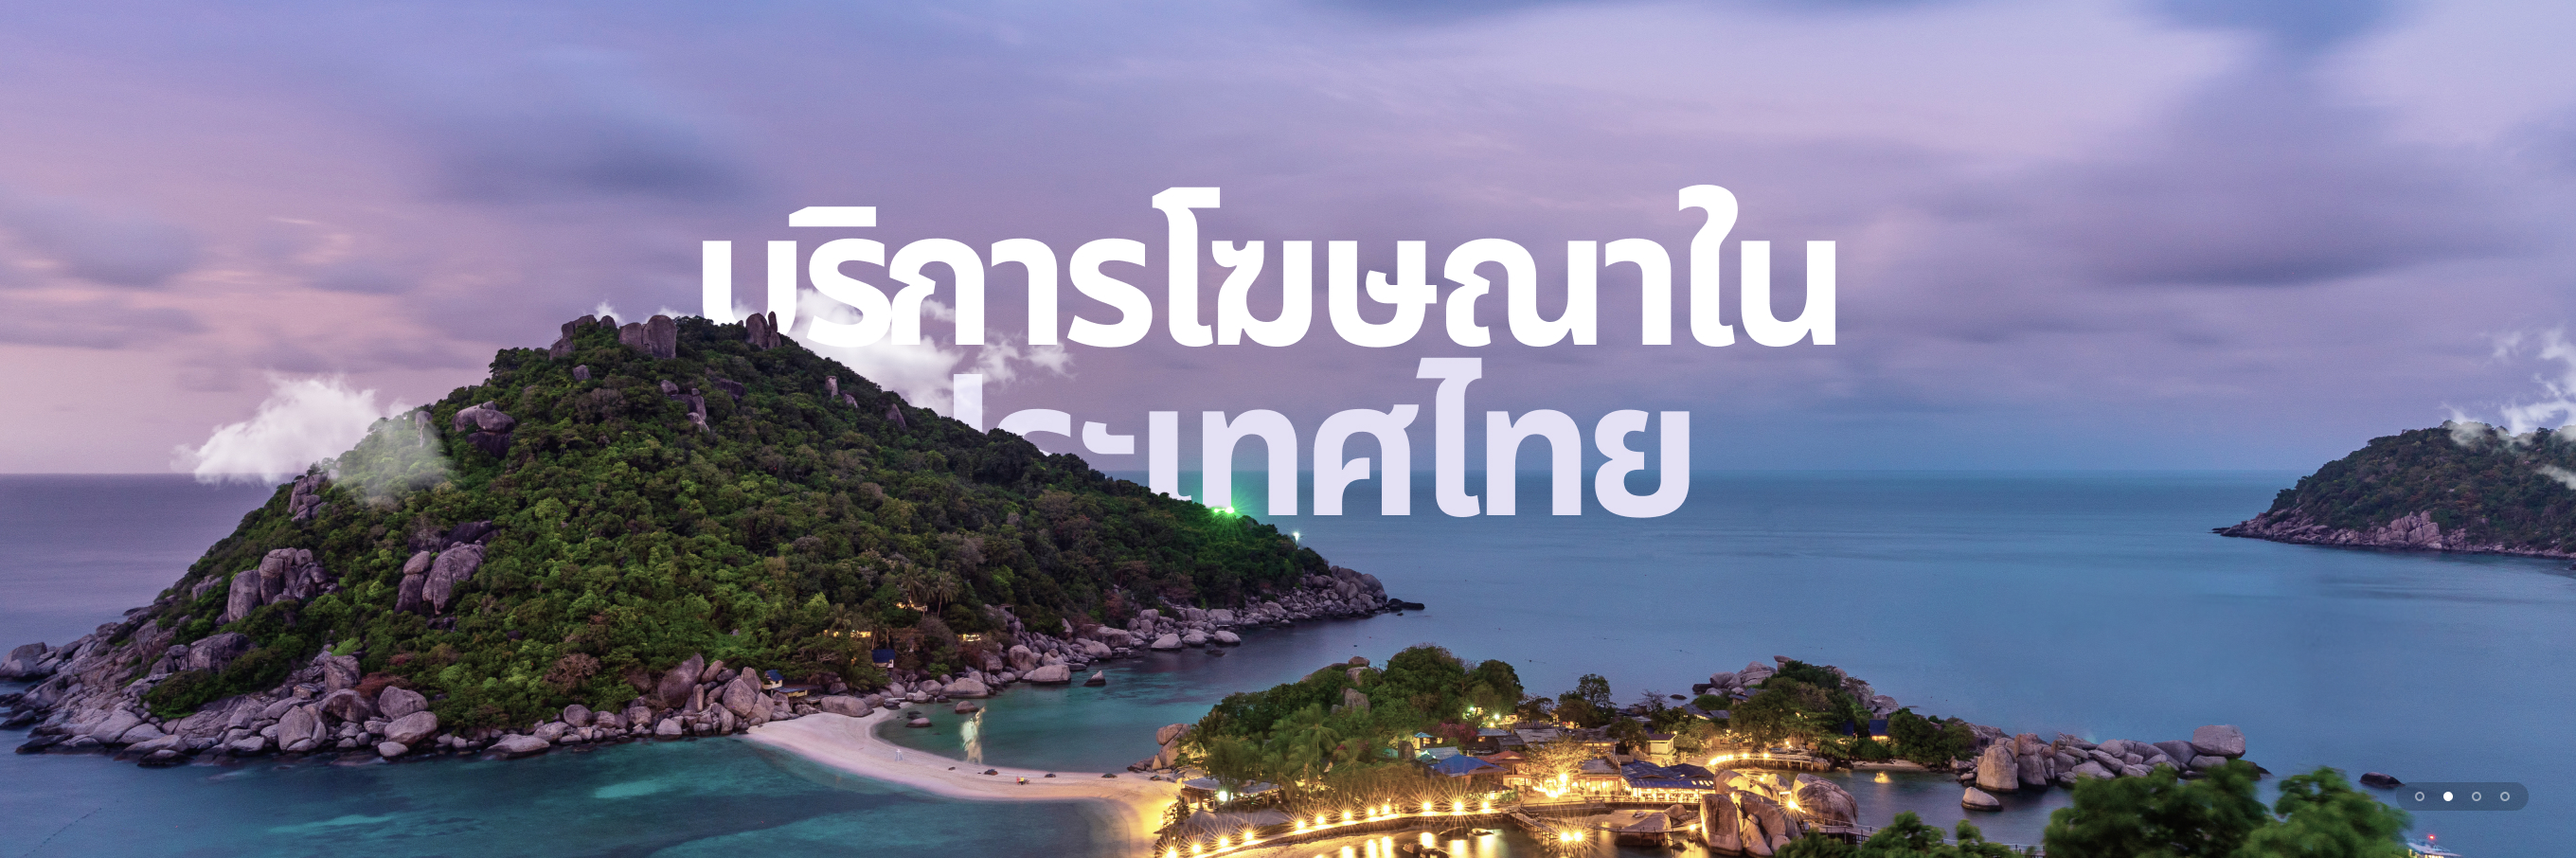
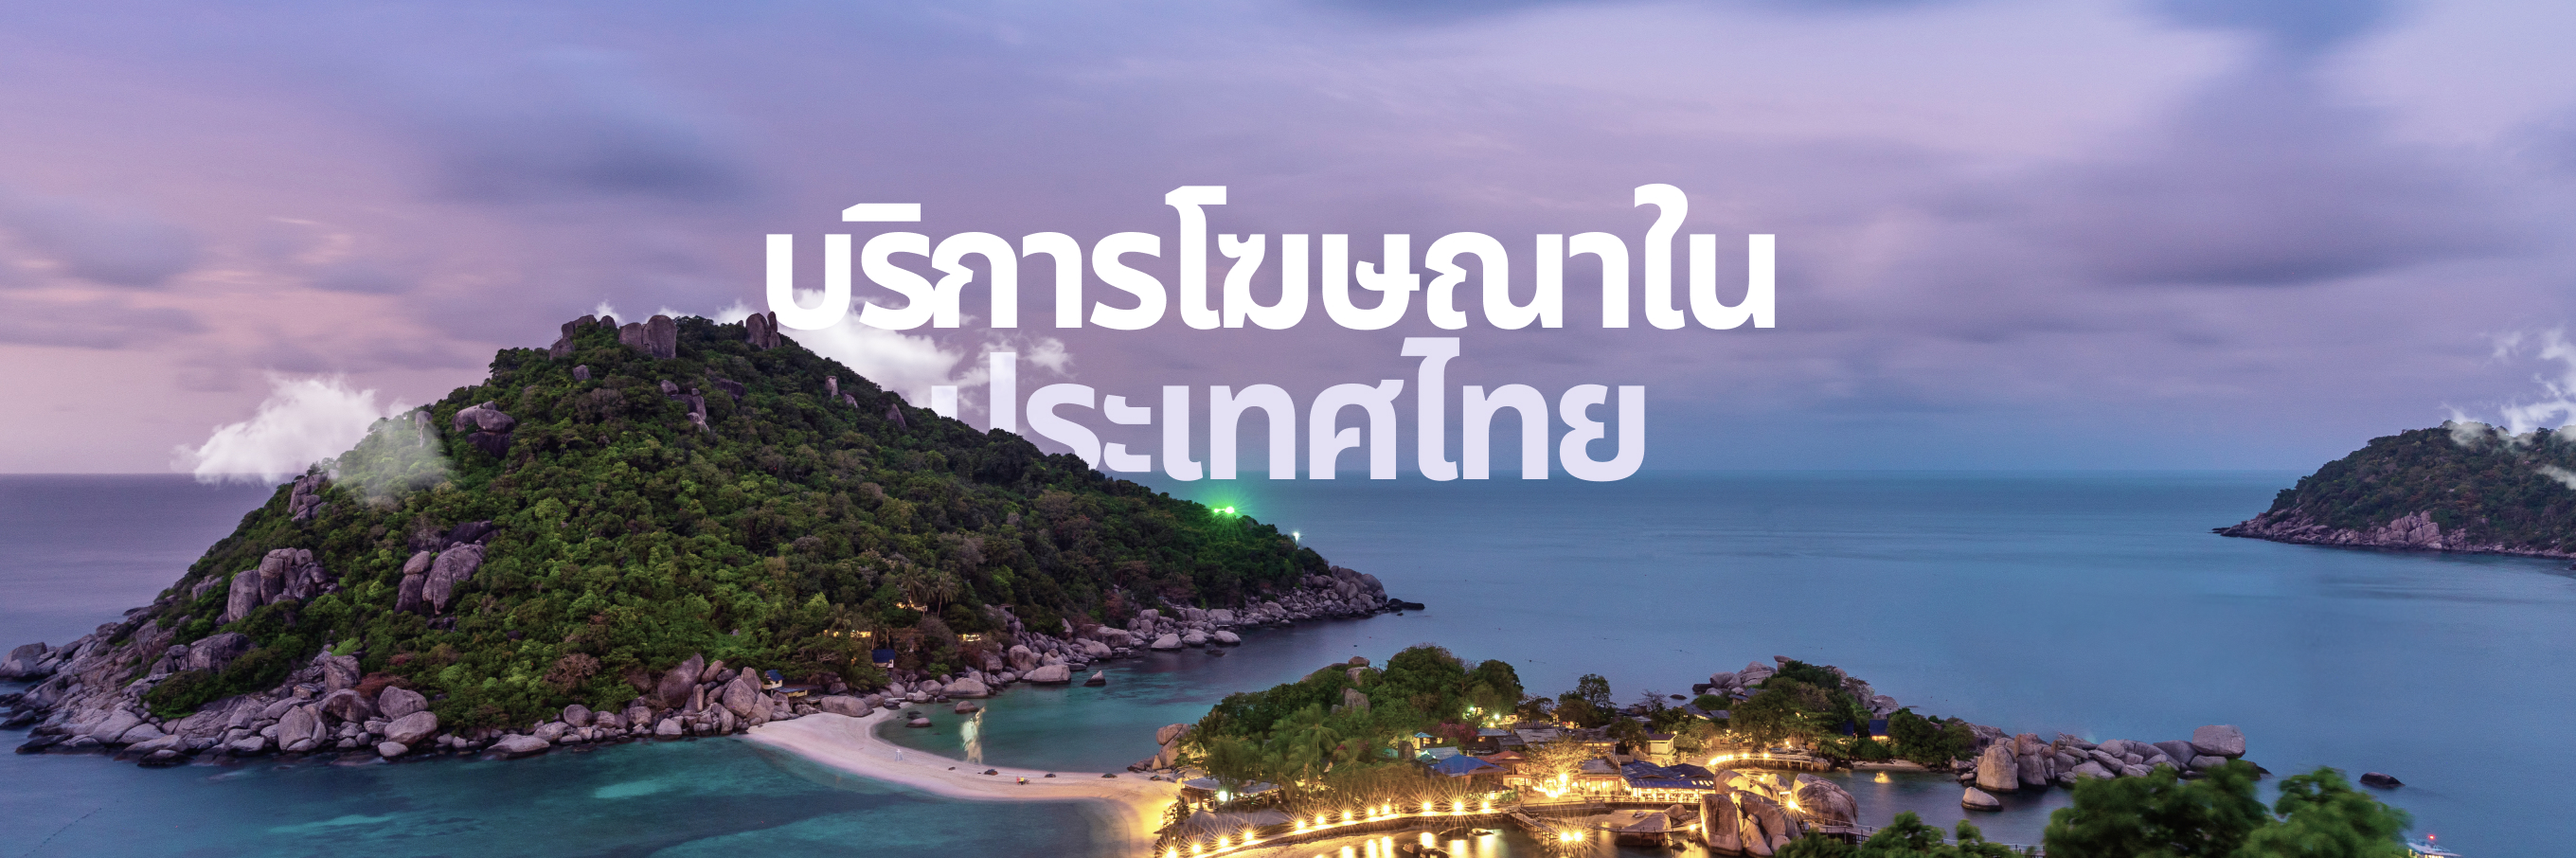
fix images and header

Changed region(s): [[0.25, 0.2163, 0.7188, 0.6181], [0.9062, 0.8962, 1.0, 0.9581]]

diff --git a/src/components/MainPage/Hero/Hero.tsx b/src/components/MainPage/Hero/Hero.tsx
@@ -1,12 +1,7 @@
-import { useMemo, useEffect } from "react";
+import { useMemo } from "react";
 import { useTranslation } from "react-i18next";
 import Slider from "../../Slider/Slider";
 import styles from "./hero.module.scss";
-import cn from "classnames";
-import SearchBar from "components/SearchBar/SearchBar";
-
-import slideBg1 from "images/main-page/slide-img-1.png";
-import slideBg1Mobile from "images/main-page/slide-img-1-mobile.png";
 
 const Hero = () => {
   const { t } = useTranslation();
@@ -16,7 +11,7 @@ const Hero = () => {
       {
         id: 0,
         background: t(`home.bannerFirst`),
-        backgroundMobile: slideBg1Mobile.src,
+        backgroundMobile: t(`home.bannerFirstMobile`),
         button: {
           name: t(`general.createButton`),
           link: "/create-an-ad",
@@ -47,9 +42,6 @@ const Hero = () => {
         data-aos-delay="300"
       >
         <Slider slides={sliderList} isHeroSection />
-        {/* <div className={styles.searchBar}>
-          <SearchBar />
-        </div> */}
       </div>
     </section>
   );

diff --git a/src/components/Slider/components/SliderHeroSection/slide-hero-section.module.scss b/src/components/Slider/components/SliderHeroSection/slide-hero-section.module.scss
@@ -1,12 +1,12 @@
 .container {
-  min-height: 493px;
   background-size: cover;
   background-repeat: no-repeat;
   background-position: center top;
   border-radius: 25px;
   overflow: hidden;
   -webkit-mask-image: -webkit-radial-gradient(#fff, #000);
-  padding: 86px 30px 86px;
+  // padding: 86px 30px 86px;
+  padding-top: 33.309%;
   display: flex;
   flex-direction: column;
 }
@@ -16,19 +16,29 @@
   justify-content: center;
   align-items: center;
   margin-top: auto;
+  position: absolute;
+  bottom: 86px;
+  left: 50%;
+  transform: translateX(-50%);
+}
+
+@media (max-width: 1200px) {
+  .container {
+    padding-top: 46%;
+  }
 }
 
 @media (max-width: 998px) {
   .container {
-    min-height: 350px;
-    padding: 40px 20px 40px;
+    padding-top: 52%;
+  }
+  .button {
+    bottom: 40px;
   }
 }
 
-@media (max-width: 768px) {
+@media (max-width: 480px) {
   .container {
-    min-height: 295px;
-    padding: 40px 20px 55px;
-    background-position: center bottom;
+    padding-top: 88.06%;
   }
 }

diff --git a/src/components/Header/Header.tsx b/src/components/Header/Header.tsx
@@ -164,13 +164,13 @@ const Header: FC<IProps> = ({ isSecondHeader, withoutSearchBar }) => {
                 className={cn(
                   "default-button sm",
                   {
-                    onlyIcon: isSearchBarTop || isTablet || isSecondHeader,
+                    onlyIcon: isSearchBarTop || isSmallLaptop || isSecondHeader,
                   },
                   styles.button
                 )}
                 onClick={() => setIsOpenAuthorization(true)}
               >
-                {isSearchBarTop || isTablet || isSecondHeader ? (
+                {isSearchBarTop || isSmallLaptop || isSecondHeader ? (
                   <AddSvg />
                 ) : (
                   t(`general.createButton`)

diff --git a/src/components/CreateAnAd/CreateAnAd.tsx b/src/components/CreateAnAd/CreateAnAd.tsx
@@ -37,7 +37,11 @@ const CreateAnAd: FC<IProps> = ({ currentAdInfo }) => {
             <BreadCrumbs crumbs={breadCrumbs} />
             <div className={styles.banner}>
               <img
-                src={currentAdInfo ? bannerEditImg.src : bannerImg.src}
+                src={
+                  currentAdInfo
+                    ? t("createad.bannerEdit")
+                    : t("createad.banner")
+                }
                 alt=""
               />
             </div>

diff --git a/src/translates/en/home.ts b/src/translates/en/home.ts
@@ -1,7 +1,9 @@
-import HeroImgEn from "images/main-page/slide-img-1.png";
+import HeroImgEn from "images/main-page/slide-img-1.jpg";
+import HeroImgEnMobile from "images/main-page/slide-img-1-mobile.jpg";
 
 const home = {
   bannerFirst: HeroImgEn.src,
+  bannerFirstMobile: HeroImgEnMobile.src,
   popularCategory: "Popular Categories",
   recommended: "Recommended",
   category: "Categories",

diff --git a/src/translates/th/home.ts b/src/translates/th/home.ts
@@ -1,7 +1,9 @@
 import HeroImgTh from "images/main-page/slide-img-1-th.jpg";
+import HeroImgThMobile from "images/main-page/slide-img-1-th-mobile.jpg";
 
 const home = {
   bannerFirst: HeroImgTh.src,
+  bannerFirstMobile: HeroImgThMobile.src,
   popularCategory: "หมวดหมู่ยอดนิยม",
   recommended: "แนะนำ",
   category: "หมวดหมู่",

diff --git a/src/translates/ru/home.ts b/src/translates/ru/home.ts
@@ -1,7 +1,9 @@
 import HeroImgRu from "images/main-page/slide-img-1-ru.jpg";
+import HeroImgRuMobile from "images/main-page/slide-img-1-ru-mobile.jpg";
 
 const home = {
   bannerFirst: HeroImgRu.src,
+  bannerFirstMobile: HeroImgRuMobile.src,
   popularCategory: "Популярные категории",
   recommended: "Рекомендации",
   category: "Категории",

diff --git a/src/translates/th/createad.ts b/src/translates/th/createad.ts
@@ -1,4 +1,9 @@
+import bannerImg from "images/create-an-add/hero-banner-th.jpg";
+import bannerEditImg from "images/create-an-add/hero-banner-edit-th.jpg";
+
 const createad = {
+  banner: bannerImg.src,
+  bannerEdit: bannerEditImg.src,
   newAd: "โฆษณาใหม่",
   chooseCategory: "เลือกหมวดหมู่",
   category: "หมวดหมู่",

diff --git a/src/translates/ru/createad.ts b/src/translates/ru/createad.ts
@@ -1,4 +1,9 @@
+import bannerImg from "images/create-an-add/hero-banner-ru.jpg";
+import bannerEditImg from "images/create-an-add/hero-banner-edit-ru.jpg";
+
 const createad = {
+  banner: bannerImg.src,
+  bannerEdit: bannerEditImg.src,
   newAd: "Новое объявление",
   chooseCategory: "Выберите категорию",
   category: "Категория",

diff --git a/src/components/Slider/components/SliderHeroSection/SliderHeroSection.tsx b/src/components/Slider/components/SliderHeroSection/SliderHeroSection.tsx
@@ -7,14 +7,9 @@ interface IProps {
   param: any;
 }
 
-// interface IProp {
-//   name: string;
-//   link: string;
-// }
-// backgroundMobile;
-
 const Slide: FC<IProps> = ({ param }) => {
-  const isMobile = useMediaQuery(400);
+  const isMobile = useMediaQuery(480);
+
   return (
     <div
       className={styles.container}

diff --git a/src/translates/en/createad.ts b/src/translates/en/createad.ts
@@ -1,4 +1,9 @@
+import bannerImg from "images/create-an-add/hero-banner.jpg";
+import bannerEditImg from "images/create-an-add/hero-banner-edit.jpg";
+
 const createad = {
+  banner: bannerImg.src,
+  bannerEdit: bannerEditImg.src,
   newAd: "New Ad",
   chooseCategory: "Choose category",
   category: "Category",

diff --git a/src/components/Header/header.module.scss b/src/components/Header/header.module.scss
@@ -149,6 +149,14 @@
   transition: box-shadow 0.25s ease-in;
 }
 
+@media (max-width: 1200px) and (min-width: 1101px) {
+  .list {
+    margin-left: 15px;
+  }
+  .item {
+    margin-left: 20px;
+  }
+}
 @media (max-width: 998px) {
   .logoDescription {
     display: none;
